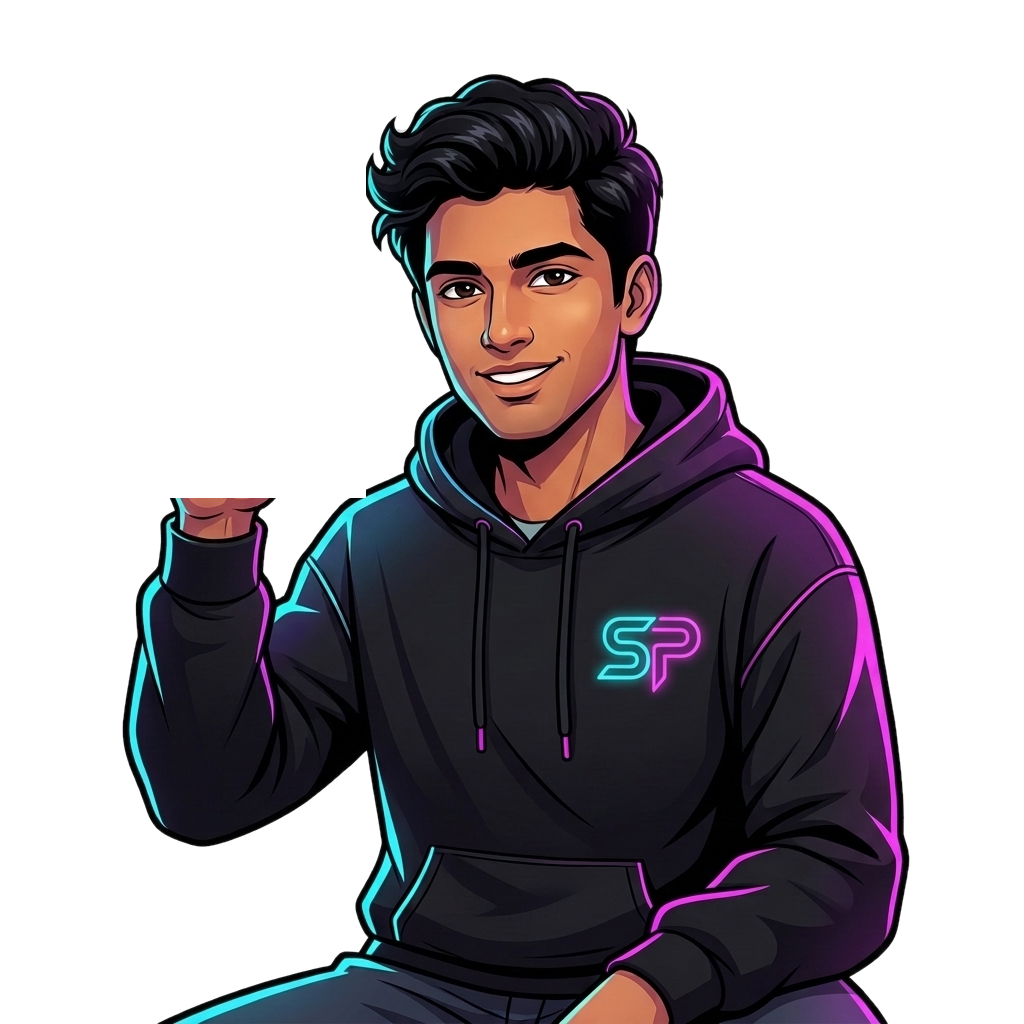
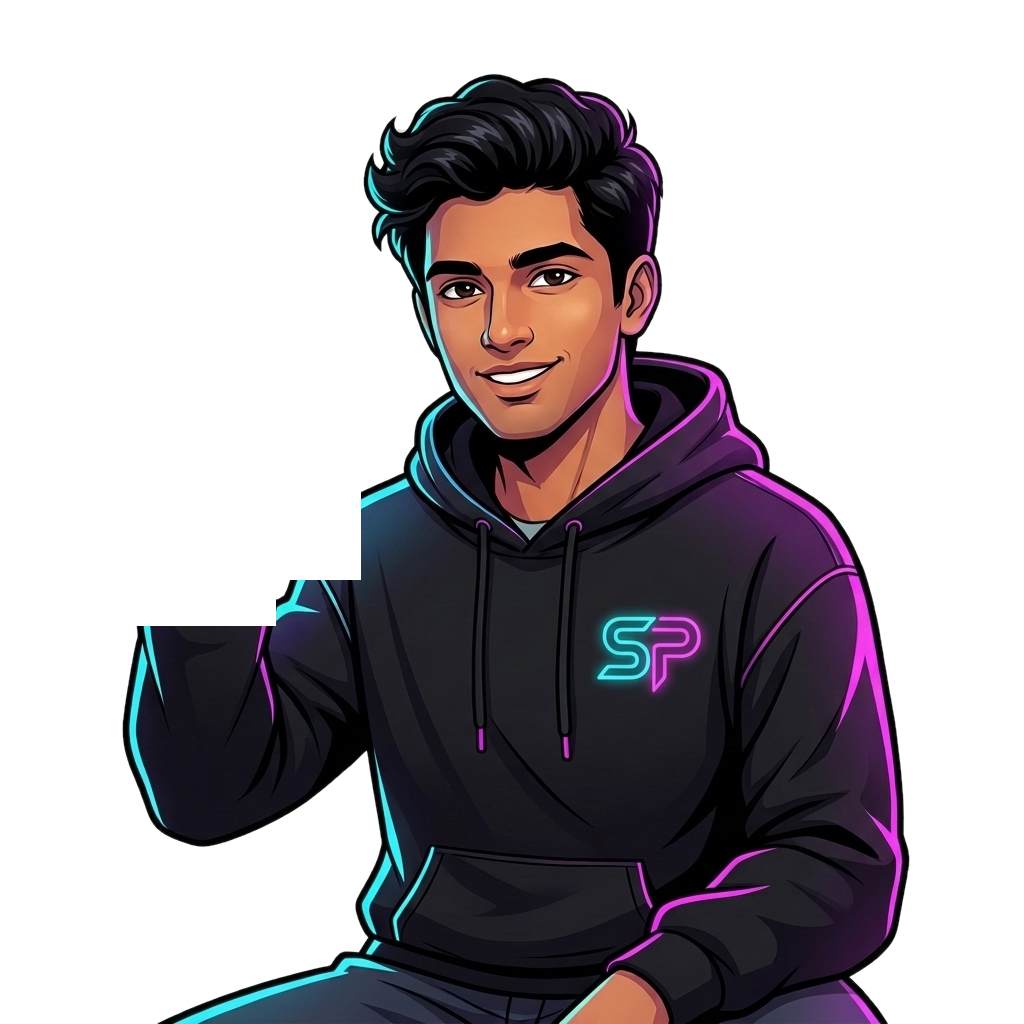
fix: animate hand and forearm together as one continuous limb pivoting from the elbow with zero wrist detachment

Changed region(s): [[0.125, 0.4688, 0.375, 0.625]]

diff --git a/src/components/DeveloperCharacter.tsx b/src/components/DeveloperCharacter.tsx
@@ -14,14 +14,14 @@ export const DeveloperCharacter: React.FC<DeveloperCharacterProps> = ({
 }) => {
   const shouldReduceMotion = useReducedMotion();
 
-  // Waving rotation keyframes with gentle natural pauses between waves
+  // Natural waving rotation keyframes from the elbow joint (10-12° total sweep with resting pause)
   const waveAnimation = shouldReduceMotion ? { rotate: 0 } : {
-    rotate: [0, -14, 14, -12, 10, 0, 0],
+    rotate: [0, -6, 6, -5, 4, 0, 0],
     transition: {
-      duration: 1.8,
+      duration: 2.0,
       repeat: Infinity,
       ease: "easeInOut",
-      times: [0, 0.18, 0.38, 0.58, 0.74, 0.86, 1.0]
+      times: [0, 0.2, 0.42, 0.62, 0.78, 0.88, 1.0]
     }
   };
 
@@ -111,13 +111,13 @@ export const DeveloperCharacter: React.FC<DeveloperCharacterProps> = ({
           </text>
         </g>
 
-        {/* ── Layer 2: Premium Personalized Surya Developer Avatar (With Naturally Waving Hand) ── */}
+        {/* ── Layer 2: Premium Personalized Surya Developer Avatar ── */}
         <g>
           {/* Neon rim ambient aura directly behind avatar */}
           <ellipse cx="250" cy="260" rx="160" ry="170" fill="#00F0FF" opacity="0.12" filter="blur(20px)" />
           <ellipse cx="270" cy="240" rx="140" ry="150" fill="#FF007F" opacity="0.1" filter="blur(25px)" />
 
-          {/* 2A. Stationary Body, Head, Hair & Hoodie (Stationary, zero jitter) */}
+          {/* 2A. Stationary Body, Head, Wavy Hair, Hoodie & Torso */}
           <image
             href="/surya-avatar-body.png"
             x="40"
@@ -128,17 +128,18 @@ export const DeveloperCharacter: React.FC<DeveloperCharacterProps> = ({
             filter="url(#avatarNeonRim)"
           />
 
-          {/* 2B. Waving Hand & Forearm (Rotates around exact wrist pivot: x=131px, y=246px) */}
+          {/* 2B. Continuous Waving Limb: Hand + Wrist + Forearm Sleeve All in One Piece */}
+          {/* Anatomical pivot point at the elbow joint: x=126px, y=298px */}
           <motion.g
             animate={waveAnimation}
             style={{ 
-              originX: "131px", 
-              originY: "246px",
-              transformOrigin: "131px 246px"
+              originX: "126px", 
+              originY: "298px",
+              transformOrigin: "126px 298px"
             }}
           >
             <image
-              href="/surya-avatar-hand.png"
+              href="/surya-avatar-arm.png"
               x="40"
               y="42"
               width="420"
@@ -147,16 +148,6 @@ export const DeveloperCharacter: React.FC<DeveloperCharacterProps> = ({
               filter="url(#avatarNeonRim)"
             />
           </motion.g>
-
-          {/* 2C. Stationary Sleeve Cuff Rim (Stationary, seamlessly masks wrist pivot) */}
-          <image
-            href="/surya-avatar-cuff.png"
-            x="40"
-            y="42"
-            width="420"
-            height="420"
-            preserveAspectRatio="xMidYMid meet"
-          />
 
           {/* Glowing "SP" Monogram Emblem Highlight on Hoodie Chest */}
           <g transform="translate(205, 305)" filter="url(#spNeonGlow)">
@@ -168,6 +159,7 @@ export const DeveloperCharacter: React.FC<DeveloperCharacterProps> = ({
         </g>
 
         {/* ── Layer 3: Foreground Coding Monitor & Futuristic Cyberpunk Desk ── */}
+        {/* Anchors the elbow naturally behind the desk and monitor */}
         <g>
           {/* Cyberpunk Desk Surface */}
           <polygon points="25,445 475,445 500,520 0,520" fill="#090514" stroke="#000" strokeWidth="6" />
